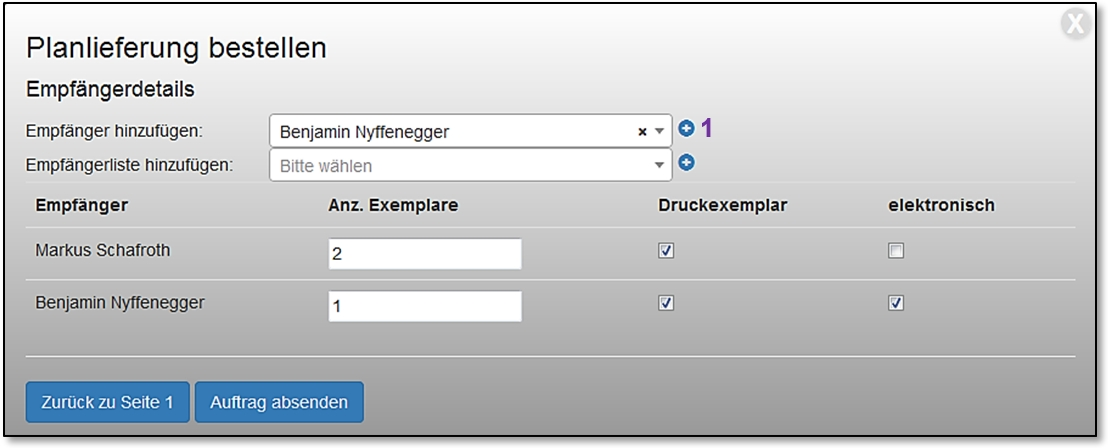
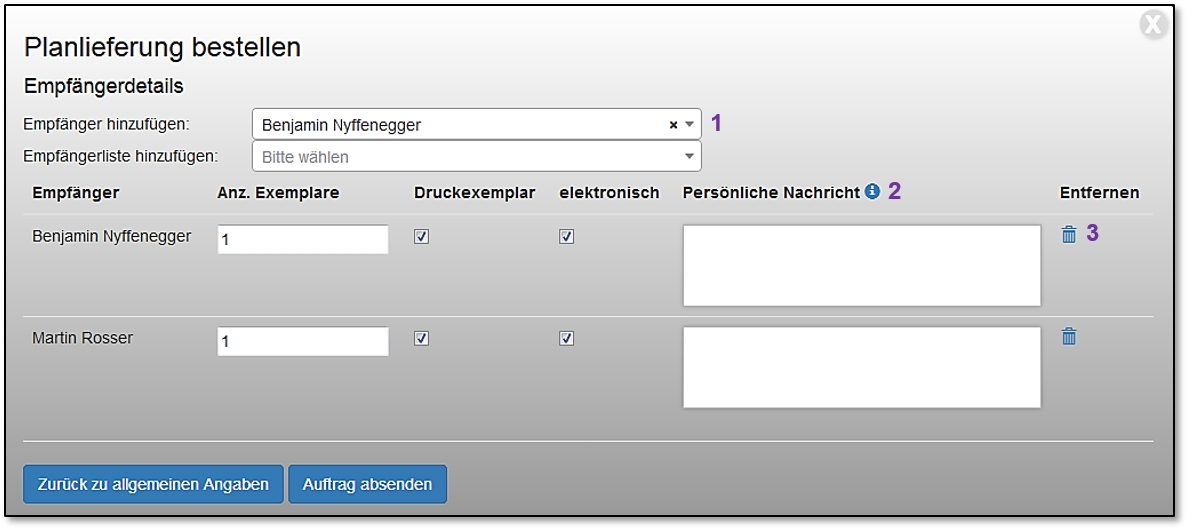
[german]
Anpassungen in Kap 2 bezüglich automatischem Einloggen
Anpassungen in Dokumentenablage / Print (individuelle Meldngen)

diff --git a/german/chapters/11_Dokumentenablage/11_Dokumentenablage.tex b/german/chapters/11_Dokumentenablage/11_Dokumentenablage.tex
@@ -617,7 +617,7 @@ Pläne können direkt aus der Dokumentenablage an Reprozentren zur Direktauslief
 
 \vspace{\baselineskip}
 
-Für das Versenden von Plänen via Reprozentren gehen Sie wie folgt vor: Wählen Sie wie oben beschrieben sämtliche benötigten Dokumente / Pläne aus und legen Sie diese in den Dokumentenkorb. In Ihrem Dokumentenkorb sehen Sie nun alle ausgewählten Dokumente. Sie können bei Bedarf mittels dem Kreuzchensymbol \includegraphics[height=12pt]{/Icons/blKreuzchen.jpg} nicht benötigte Dokumente wieder löschen. Sind alle Dokumente / Pläne beisammen, klicken Sie im Dokumentenkorb auf das Drucker-Symbol \includegraphics[height=12pt]{/Icons/printer.jpg}. Es öffnet sich folgendes Fenster:
+Für das Versenden von Plänen via Reprozentren gehen Sie wie folgt vor: Wählen Sie wie oben beschrieben sämtliche benötigten Dokumente / Pläne aus und legen Sie diese in den Dokumentenkorb. In Ihrem Dokumentenkorb sehen Sie nun alle ausgewählten Dokumente. Haben Sie zu viele Dokumente ausgewählt / markiert, können Sie bei diesen Dokumenten die Markierung wieder herausnehmen \includegraphics[height=12pt]{/Icons/checkbox_markiert.jpg} $ > $ \includegraphics[height=12pt]{/Icons/checkbox_leer.jpg} und den Warenkorb entsprechend anpassen. Sind alle Dokumente / Pläne beisammen, klicken Sie im Dokumentenkorb auf das Drucker-Symbol \includegraphics[height=12pt]{/Icons/printer.jpg}. Es öffnet sich folgendes Fenster:
 
 \begin{figure}[H]
 \center{\includegraphics[width=1\linewidth]{../chapters/11_Dokumentenablage/pictures/11-dkorb_ReproDialog1.jpg}}
@@ -656,7 +656,15 @@ Haben Sie alle nötigen Angaben gemacht, klicken Sie auf 'Weiter zu Seite 2' um 
 % \label{fig:speciation}
 \end{figure}
 
-Hier können Sie einen oder mehrere Empfänger auswählen. Gehen Sie wie folgt vor: aus der Dropdownliste 'Empfänger hinzufügen' wählen Sie die gewünschte Person aus. Nach der Auswahl klicken Sie anschliessend auf das Plussymbol \includegraphics[height=12pt]{/Icons/Plussymbol.jpg} \col{(1)}. Wiederholen Sie diesen Schritt mit weiteren benötigten Empfänger. So bald Sie auf das Plussymbol klicken wird die gewünschte Person unten im Dialogfenster aufgeführt. Sie können nun noch einige Einstellungen vornehmen, wie zum Beispiel wie viele Exemplare pro Empfänger benötigt werden und ob der / die Empfänger die Pläne ausgedruckt (Druckexemplar) oder als PDF/Dokument per Mail zugestellt benötigt / benötigen (elektronisch).
+Hier können Sie einen oder mehrere Empfänger auswählen. Gehen Sie wie folgt vor: aus der Dropdownliste 'Empfänger hinzufügen' wählen Sie die gewünschte Person aus. Wiederholen Sie diesen Schritt mit weiteren benötigten Empfängern. So bald Sie einen Empfänger aus der Liste ausgewählt haben, erscheint dieser unten im Dialogfenster. Sie können nun noch einige Einstellungen vornehmen, wie zum Beispiel wie viele Exemplare pro Empfänger benötigt werden und ob der / die Empfänger die Pläne ausgedruckt (Druckexemplar) oder als PDF/Dokument per E-Mail zugestellt benötigt / benötigen (elektronisch). \\
+Sie haben nun die Möglichkeit individuelle Nachrichten an die einzelnen Empfänger zu versenden (E-Mail / Lieferschein) \col{(2)}. Werden hier nun Nachrichten hinterlegt, werden die allgemeinen Nachrichten auf der ersten Dialogseite (Allgemeine Angaben) dadurch ersetzt (Siehe auch Information mit Klick auf \includegraphics[height=12pt]{/Icons/Info_blau.jpg}. \col{(2)}\\
+Mit dem Mülltonnensymbol \includegraphics[height=12pt]{/Icons/Muelltonne.jpg} \col{(3)} können Sie die ausgewählten Empfänger wieder löschen. Werden mittels obiger Dropdownliste 'Empfänger hinzufügen' \col{(1)} Empfänger ausgewählt, welche bereits unten in der Liste stehen, erscheint folgende Meldung:
+
+\begin{figure}[H]
+\center{\includegraphics[width=.5\linewidth]{../chapters/11_Dokumentenablage/pictures/11-dkorb_Meldung_doppeltePerson.jpg}}
+\caption{Meldung: Empfänger existiert bereits}
+% \label{fig:speciation}
+\end{figure}
 
 \vspace{\baselineskip}
 

diff --git a/german/chapters/02_GettingStarted/02_GettingStarted.tex b/german/chapters/02_GettingStarted/02_GettingStarted.tex
@@ -91,6 +91,10 @@ Es werden sämtliche Arbeitsumgebungen angezeigt, bei welchen Sie registriert si
 
 Geben Sie Ihren Benutzername und das Passwort ein. Nach Klick auf 'Anmelden' erscheint die persönliche Übersicht.
 
+\vspace{\baselineskip}
+
+\textbf{Hinweis:} Haben Sie in Ihrem Browser gültige Zugangsdaten (E-Mail Adresse und Passwort) hinterlegt, werden Sie direkt in CUBE PA eingeloggt.
+
 \subsection{Passwort ändern}
 \label{bkm:Ref434828103}
 

diff --git a/german/CUBEPA_Handbuch.tex b/german/CUBEPA_Handbuch.tex
@@ -83,11 +83,8 @@
 \HRule \\[1.5cm]
 
 \textsf{\Large Benutzerhandbuch}\\[0.5cm] % Major heading such as course name
-<<<<<<< HEAD
 \textsf{\large Version 2.7 / 22.09.2017}\\[0.5cm] % Minor heading such as course title
-=======
-\textsf{\large Version 2.7-RC0 / 22.08.2017}\\[0.5cm] % Minor heading such as course title
->>>>>>> 9e57c2e1602988b1284f898321652fbbd4cc56b1
+
 
 \pagebreak
 \vspace*{15cm}
